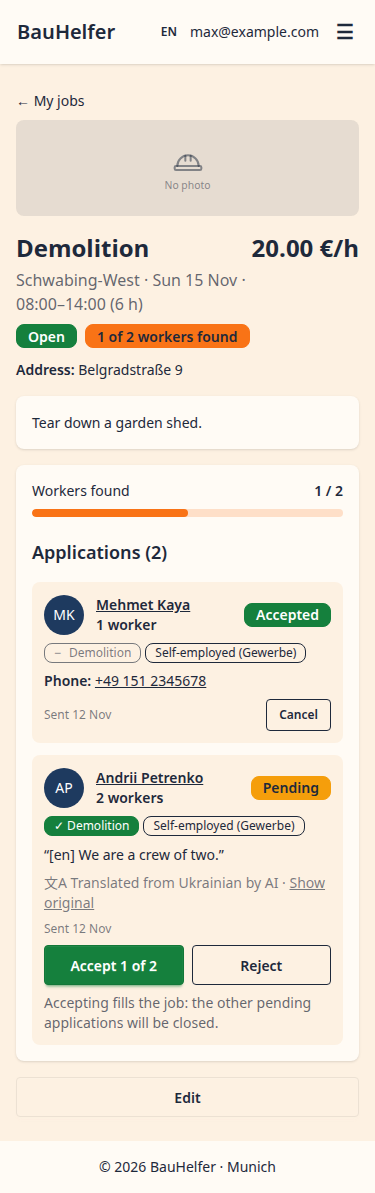
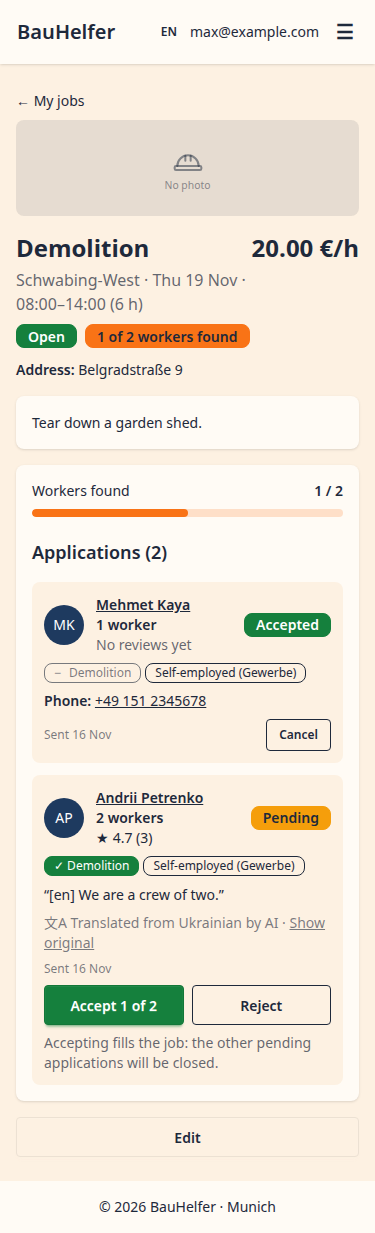
Add the built screenshot of the worker profile

diff --git a/tests/e2e/built_screenshots.py b/tests/e2e/built_screenshots.py
@@ -21,8 +21,9 @@ from django.utils import timezone
 from PIL import Image, ImageDraw
 
 from accounts.models import EmployerProfile, WorkerProfile
-from jobs.models import Application, JobPhoto
+from jobs.models import Application, Job, JobPhoto
 from jobs.tests.test_views import make_job
+from reviews.models import Review
 
 from .helpers import PASSWORD, log_in
 
@@ -57,10 +58,11 @@ def test_save_built_screenshots(page):
 
     1. Create an employer with three open jobs (one with three photos, one with two
        applications, one of them accepted) and a cancelled one, and a worker; Ivan with
-       an accepted, a pending and a past application (#26)
-    2. Open the job list as a guest, the job page as the worker, "Post a job", "My jobs"
-       and the job page with the applications as the employer, "My applications" as Ivan,
-       on a 390 x 844 screen in the light theme
+       an accepted, a pending and a past application (#26); Andrii rated three times by
+       another employer, both sides (#39)
+    2. Open the job list as a guest, the job page as the worker, "Post a job", "My jobs",
+       the job page with the applications and Andrii's worker page as the employer, "My
+       applications" as Ivan, on a 390 x 844 screen in the light theme
     3. Expect: one full-page PNG per screen in docs/mockups/built/
     """
     OUT.mkdir(exist_ok=True)
@@ -208,6 +210,37 @@ def test_save_built_screenshots(page):
     )
     Application.objects.create(job=over, worker=ivan)
 
+    # Andrii's reviews (#39): three done jobs of another employer, so Max's own pages do
+    # not change; both sides rated, so the reviews are visible (ratings.md D2).
+    meier = User.objects.create_user(
+        email="karl@example.com", password=PASSWORD, role="employer", name="Karl Meier"
+    )
+    EmployerProfile.objects.create(
+        user=meier, company_name="Trockenbau Meier", trades=["drywall"]
+    )
+    andrii = User.objects.get(email="andrii@example.com")
+    for days, job_type, stars, tags in (
+        (20, "site_cleaning", 5, ["on_time", "clean_site"]),
+        (12, "demolition", 4, ["on_time"]),
+        (5, "carrying", 5, ["on_time", "careful_work"]),
+    ):
+        done = make_job(
+            meier,
+            job_type=job_type,
+            date=today - days * DAY,
+            status=Job.Status.DONE,
+            done_at=timezone.now() - (days - 1) * DAY,
+        )
+        work = Application.objects.create(
+            job=done,
+            worker=andrii,
+            workers_offered=2,
+            workers_accepted=2,
+            status=Application.Status.ACCEPTED,
+        )
+        Review.objects.create(application=work, author=meier, rating=stars, tags=tags)
+        Review.objects.create(application=work, author=andrii, rating=5)
+
     # live_server does not serve uploads (in-memory storage): answer every photo address.
     picture = photo_bytes("#d9822b")
     page.route(
@@ -224,6 +257,7 @@ def test_save_built_screenshots(page):
     shoot(page, "/jobs/new/", "post-a-job")
     shoot(page, "/jobs/mine/", "my-jobs")
     shoot(page, f"/jobs/{demolition.pk}/", "job-applications")
+    shoot(page, f"/accounts/workers/{andrii.pk}/", "worker-profile")
     page.context.clear_cookies()
     log_in(page, "ivan@example.com")
     shoot(page, "/jobs/applications/", "my-applications")
